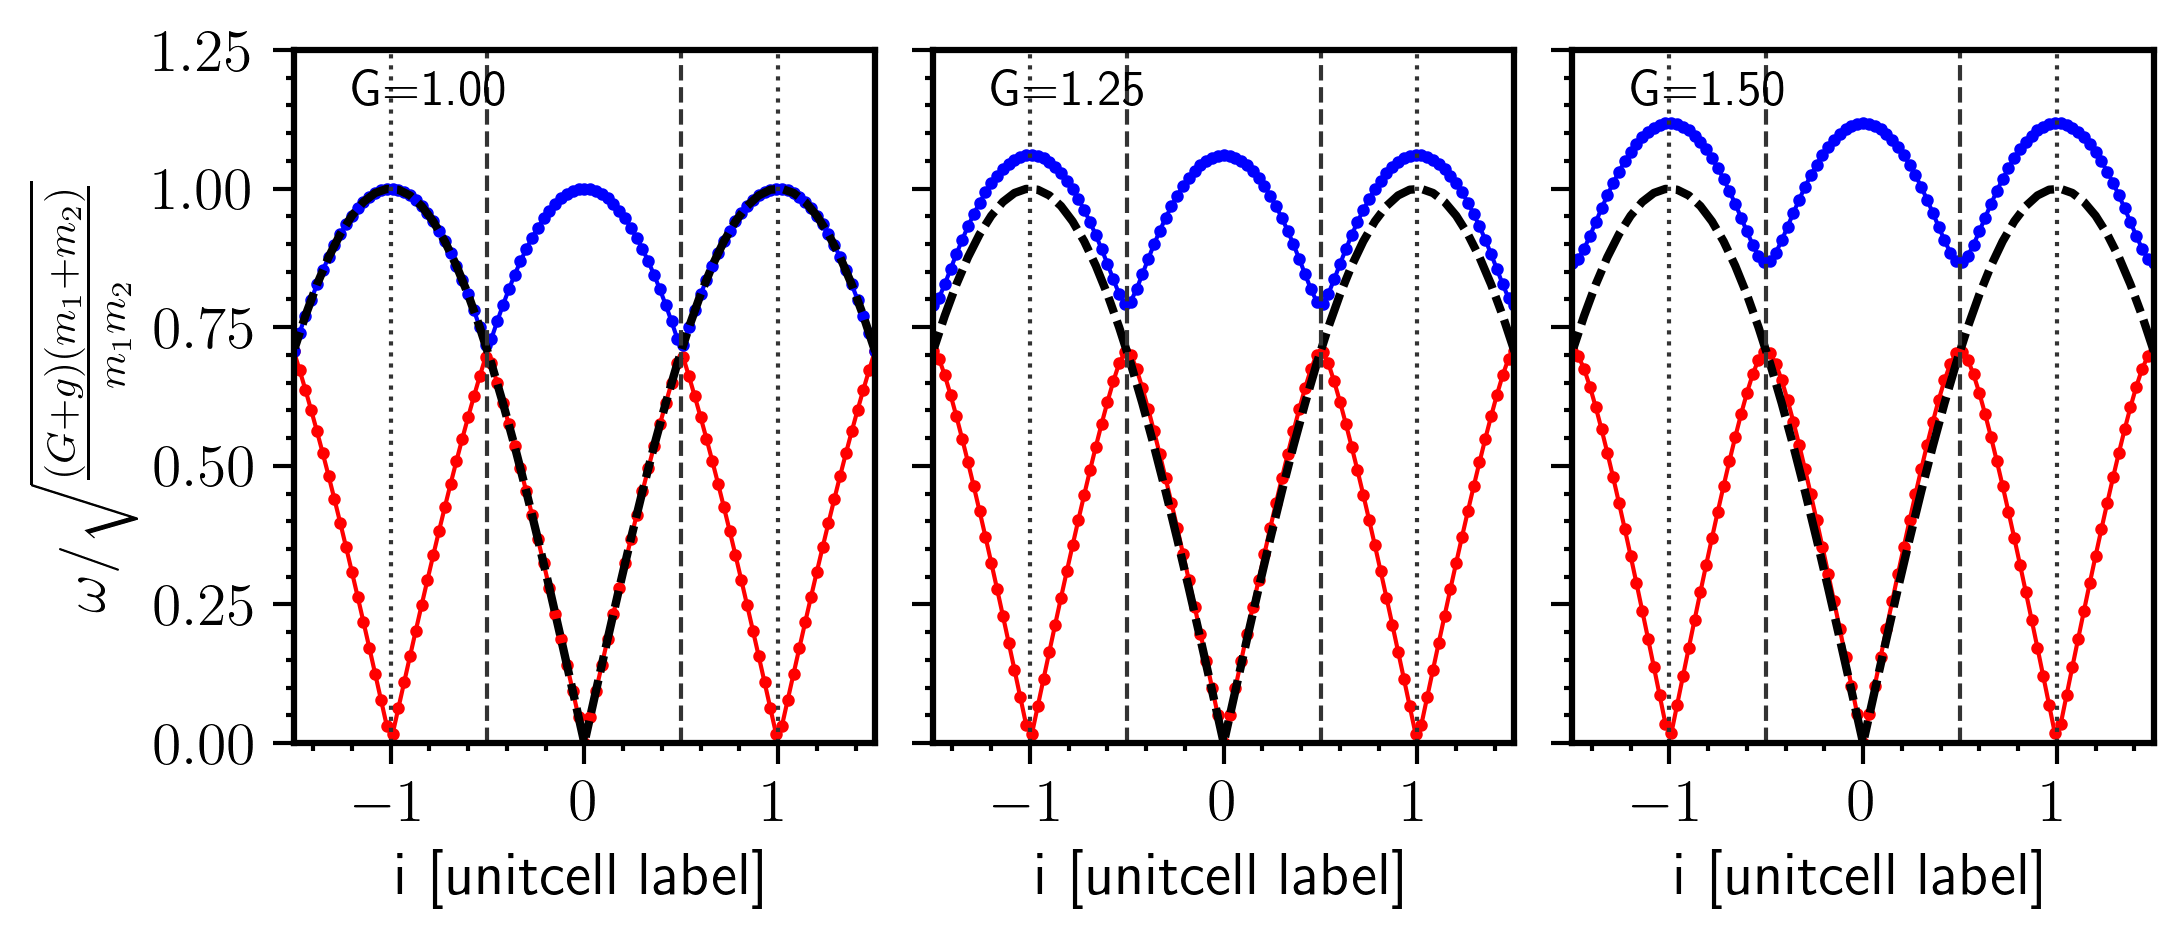
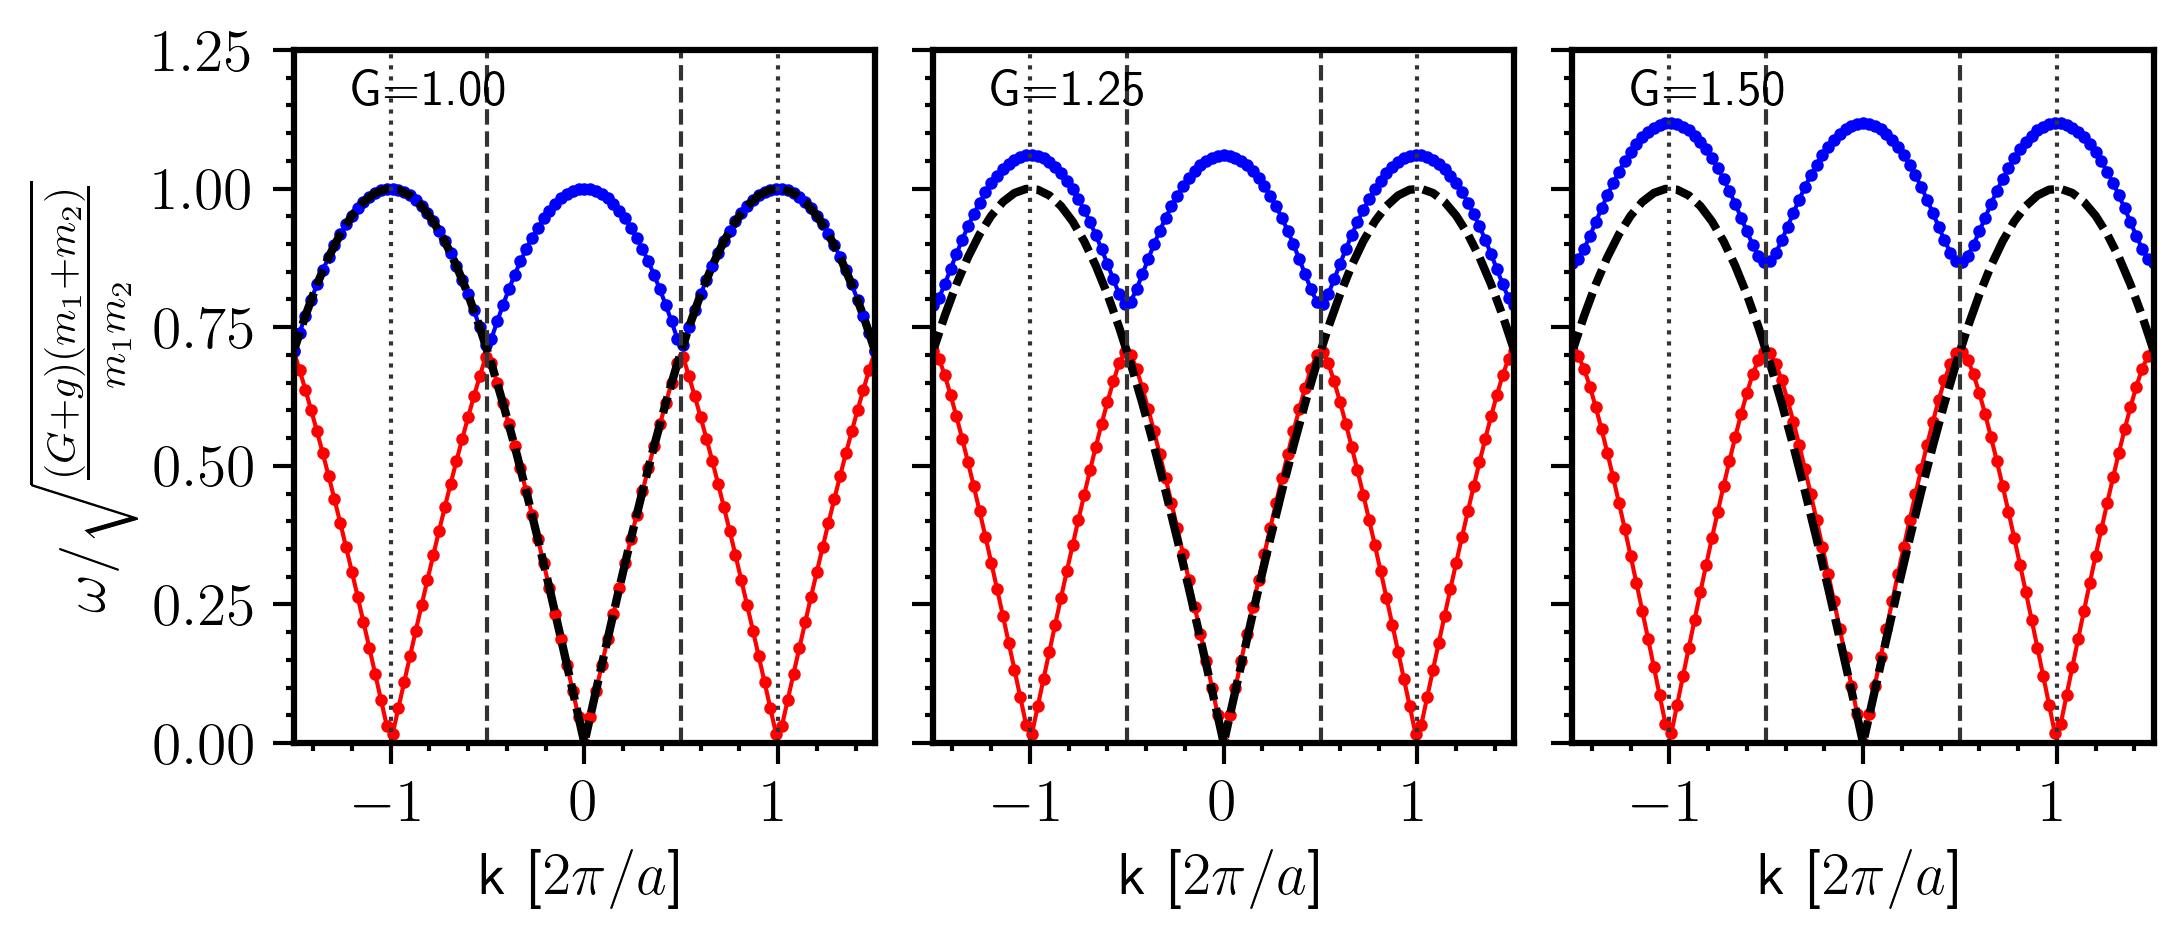
autocommit

Changed region(s): [[0.4672, 0.8966, 0.6541, 0.9584], [0.7787, 0.8966, 0.9345, 0.9584], [0.1869, 0.8966, 0.3426, 0.9584]]

diff --git a/dissertation/plot_1d_diatomic.py b/dissertation/plot_1d_diatomic.py
@@ -86,7 +86,7 @@ for ii in range(3):
         ax[ii].set_ylim(0,1.25)
         ax[ii].set_xlim(-1.5,1.5)
 
-        ax[ii].set_xlabel('i [unitcell label]',fontsize='x-large')
+        ax[ii].set_xlabel(r'k [$2\pi/a$]',fontsize='x-large')
 
 ax[1].set_yticklabels([])
 ax[2].set_yticklabels([])
@@ -139,5 +139,5 @@ plt.savefig('1d_harmonic_disp.png',dpi=300,bbox_inches='tight')
 
 """
 
-plt.show()
+#plt.show()
 
